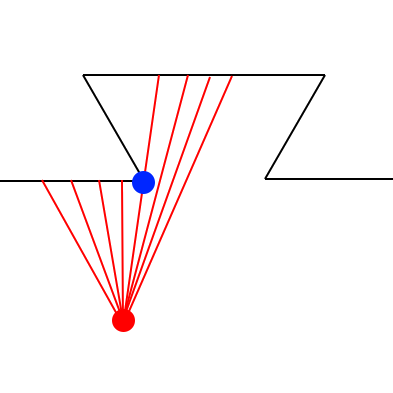
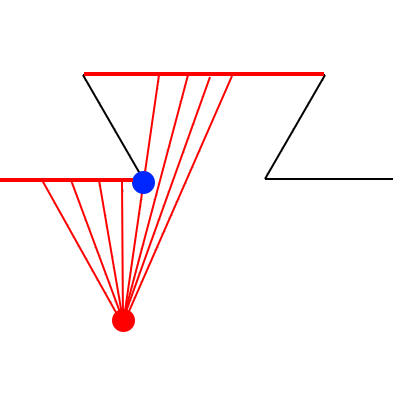
Image consistant

Changed region(s): [[0.0, 0.4275, 0.3359, 0.4885], [0.2137, 0.1832, 0.8244, 0.2137]]

diff --git a/closed-fences/index.html b/closed-fences/index.html
@@ -59,8 +59,8 @@ The original problem can be found <a href="fence4.html">here</a>.
 <h2>Algorithm</h2>
 
 <p>
-Problems in coordinate-geometry tend to be fiddly due to a large number of
-corner cases - so let's be careful!
+Problems in coordinate-geometry tend to be fiddly due to the fact there
+are often large number of special cases - so let's be careful!
 
 Consider the eye to be a Laser sweeping around. It is only at points
 that a transition can occur between sides that the laser is hitting.
@@ -72,23 +72,25 @@ points.
 </p>
 
 
-<p>
+<p class="column">
 
 <b>Case of complete intersection:</b>
-(Dotted line is not visible)
 <img src="images/transition_example3.png"/>
+
+
+<p>
 
 <b>Case of partial intersection:</b>
 <img src="images/transition_example2.png"/>
 
-</p>
+
 
 <p>
 This suggests we should consider the left and the right of the laser (eye-line)
 differently. On the LHS of the laser the visible line is the intersection
 closest to the eye, with angle between the line and the laser smallest and
 similarly on the RHS.
-</p>
+
 
 <p>
 In pseudo-code:
@@ -209,7 +211,7 @@ slightly careful.
 </p>
 <pre class="prettyprint lang-python">
 @staticmethod
-def intersect_extended(l1, l2):
+def intersect(l1, l2):
     """
     Given two lines - their intersection type.
     (INTERSECT_AS_SUBSET | INTERSECT | NO_INTERSECT)
@@ -296,7 +298,7 @@ def visible_sides(eye, point_list):
 
         for line_i, line in enumerate(lines):
 
-            intersect_type, t, s = Line.intersect_extended(line, eye_line)
+            intersect_type, t, s = Line.intersect(line, eye_line)
 
             if intersect_type == INTERSECT and s >= 0 and  (0<=t<=1):
 
@@ -343,7 +345,7 @@ Full code available <a href="closed_fences.py">here</a> with tests
 </p>
 
 <p>
-Some more examples of the algorithm below. Eye (blue dot), visible sides (green).
+Some more examples of the algorithm below. Eye (red dot), visible sides (red).
 </p>
 
 <div class="examples">

diff --git a/closed-fences/tests.py b/closed-fences/tests.py
@@ -41,43 +41,43 @@ class TestIntersectLines(unittest.TestCase):
     def test_simple(self):
         l1 = Line(Point(0, 0), Point(2, 2))
         l2 = Line(Point(0, 2), Point(2, 0))
-        self.assertEqual(Line.intersect_extended(l1, l2),
+        self.assertEqual(Line.intersect(l1, l2),
                          (INTERSECT, Fraction(1, 2), Fraction(1, 2)))
 
     def test_intersect_at_point(self):
         l1 = Line(Point(0, 0), Point(1, 1))
         l2 = Line(Point(1, 1), Point(2, 2))
-        self.assertEqual(Line.intersect_extended(l1, l2),
+        self.assertEqual(Line.intersect(l1, l2),
                          (INTERSECT_AS_SUBSET, 0, 0))
 
     def test_intersect_at_midpoint(self):
         l1 = Line(Point(0, 0), Point(2, 2))
         l2 = Line(Point(1, 1), Point(0, 2))
-        self.assertEqual(Line.intersect_extended(l1, l2),
+        self.assertEqual(Line.intersect(l1, l2),
                          (INTERSECT, Fraction(1, 2), 0))
 
     def test_subset(self):
         l1 = Line(Point(0, 0), Point(2, 2))
         l2 = Line(Point(1, 1), Point(3, 3))
-        self.assertEqual(Line.intersect_extended(l1, l2),
+        self.assertEqual(Line.intersect(l1, l2),
                          (INTERSECT_AS_SUBSET, 0, 0))
 
     def test_parallel1(self):
         l1 = Line(Point(0, 0), Point(1, 1))
         l2 = Line(Point(2, 2), Point(3, 3))
-        self.assertEqual(Line.intersect_extended(l1, l2),
+        self.assertEqual(Line.intersect(l1, l2),
                          (NO_INTERSECT, 0, 0))
 
     def test_parallel2(self):
         l1 = Line(Point(0, 0), Point(1, 1))
         l2 = Line(Point(1, 0), Point(2, 1))
-        self.assertEqual(Line.intersect_extended(l1, l2),
+        self.assertEqual(Line.intersect(l1, l2),
                          (NO_INTERSECT, 0, 0))
 
     def test_not_parallel_no_intersect(self):
         l1 = Line(Point(0, 0), Point(1, 1))
         l2 = Line(Point(5, 5), Point(-5, 5))
-        intersection_type, t, s = Line.intersect_extended(l1, l2)
+        intersection_type, t, s = Line.intersect(l1, l2)
         self.assertTrue(t>1)
 
 
@@ -95,15 +95,15 @@ class TestVisibleLines(unittest.TestCase):
         n = len(fence)
 
         # Add the point
-        dwg.add(dwg.circle((scale * eye.x, scale * eye.y), 10, fill='blue'))
+        dwg.add(dwg.circle((scale * eye.x, scale * eye.y), 10, fill='red'))
 
         # Add the shape
         for i in range(n):
             start, end = scale * fence[i], scale * fence[(i + 1) % n]
             if visible[i]:
-                colour = svgwrite.rgb(0, 100, 0, '%')
-            else:
                 colour = svgwrite.rgb(100, 0, 0, '%')
+            else:
+                colour = svgwrite.rgb(0, 0, 0, '%')
 
             dwg.add(dwg.line((start.x, start.y), (end.x, end.y),
                              stroke=colour, stroke_width=5))
@@ -141,7 +141,7 @@ class TestVisibleLines(unittest.TestCase):
         fence = [(0, 0), (10, 0), (10, 8), (0, 8), (0, 4), (2, 6), (4, 4),
                  (4, 6),
                  (8, 6), (8, 2), (4, 2), (2, 4), (0, 2)]
-        scale, box = 200, (-5, -5, 2005, 3000)
+        scale, box = 200, (-5, -5, 2005, 1700)
         self._runner(eye, fence, [False, False, False, False, False, False, True,
                                   True, True, True, True, False, False]
                      , 'img05', scale, box)

diff --git a/closed-fences/closed_fences.py b/closed-fences/closed_fences.py
@@ -79,7 +79,7 @@ class Line(object):
 
 
     @staticmethod
-    def intersect_extended(l1, l2):
+    def intersect(l1, l2):
         """
         Given two lines - their intersection type.
         (INTERSECT_AS_SUBSET | INTERSECT | NO_INTERSECT)
@@ -141,7 +141,7 @@ def visible_sides(eye, point_list):
 
         for line_i, line in enumerate(lines):
 
-            intersect_type, t, s = Line.intersect_extended(line, eye_line)
+            intersect_type, t, s = Line.intersect(line, eye_line)
 
             if intersect_type == INTERSECT and s >= 0 and  (0<=t<=1):
 
